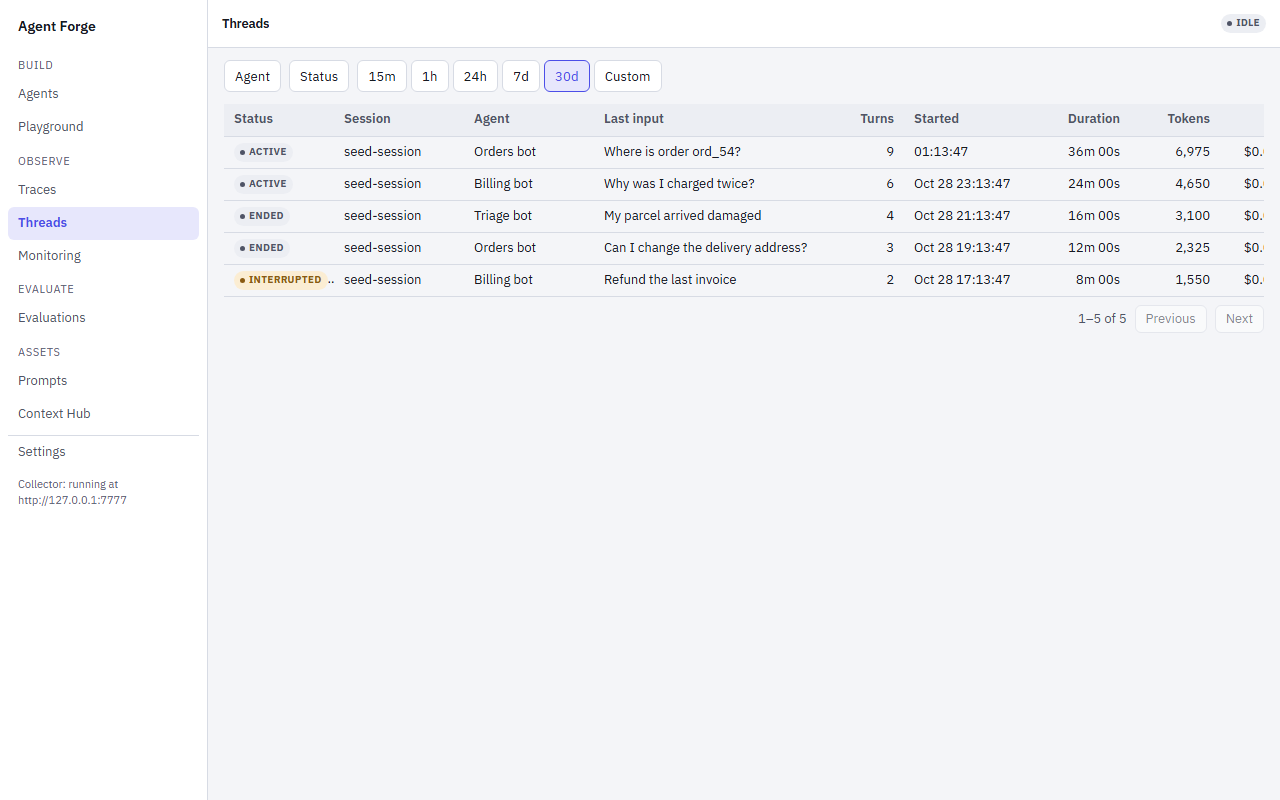
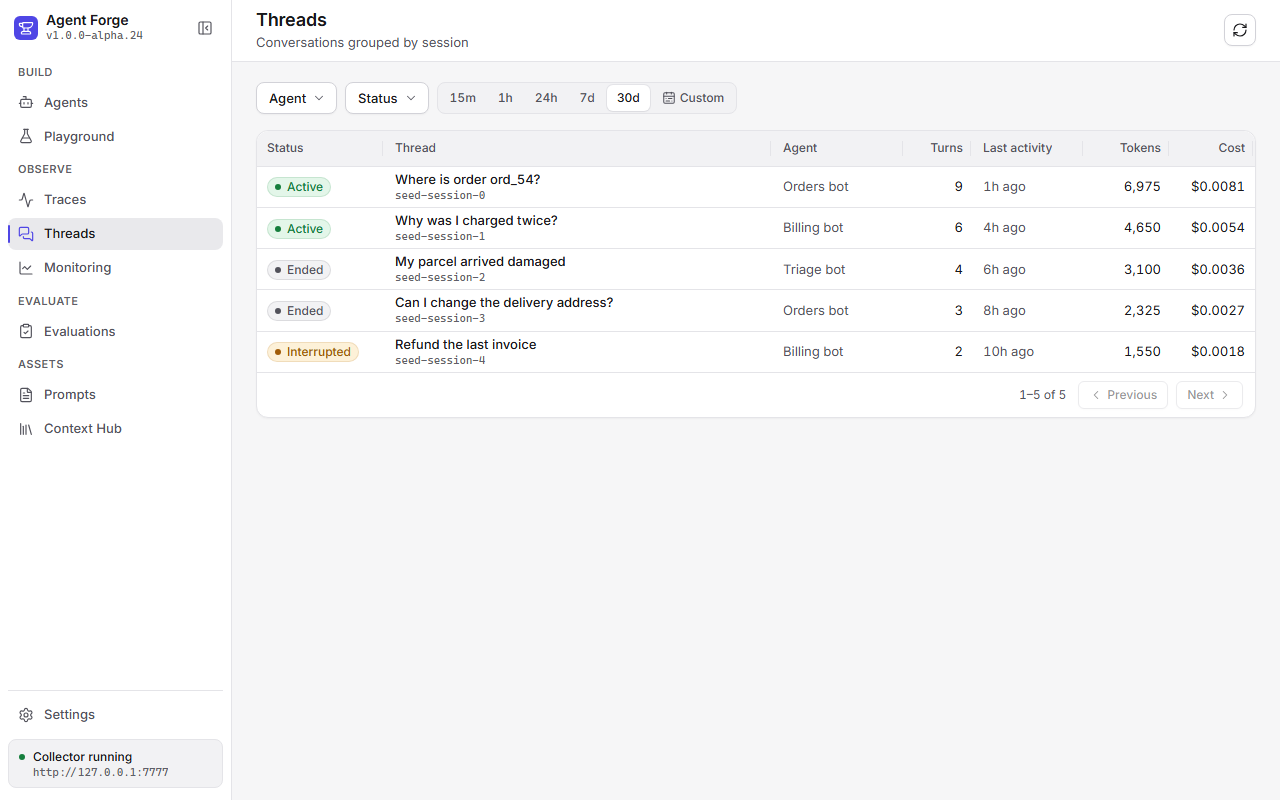
docs(studio): redesign screenshots (light + 4 dark), Agent Forge doc wording, CHANGELOG entry (#796)
* docs(studio): redesign screenshots (light + 4 dark), Agent Forge doc wording, CHANGELOG entry

docShots writes into docs/images without the x- review shots, and a dark run
there writes only studio-{agents,traces,trace,monitoring}-dark.png; with
LOUSHO_DOC_SHOTS_OUT set every shot keeps its name. docs/agent-forge.md
shows one dark example beside Traces and describes Refresh/Live, the
Tree|Waterfall switch, the trace header actions and the dark docs command.

* docs(studio): P11 review minors - Inspector button wording, Settings sections, refresh icon

---------

diff --git a/apps/agent-forge/e2e/docShots.spec.ts b/apps/agent-forge/e2e/docShots.spec.ts
@@ -26,6 +26,9 @@ import { SEED_ERROR, SEED_NEWEST_FAILURE, seedObserve } from './fixtures/seedObs
  *                                       or relative to the process cwd)
  *   LOUSHO_DOC_SHOTS_SCHEME=light|dark  the colour scheme to shoot (default light)
  *
+ * Into docs/images (no OUT) the `x-` review shots are skipped, and a dark run
+ * writes only `studio-{agents,traces,trace,monitoring}-dark.png`.
+ *
  * The small fixtures below fill the screens the seed leaves thin: a fleet with
  * mixed health, a day of chart buckets for it, and a few threads.
  */
@@ -279,11 +282,32 @@ async function open(page: Page, hash: string) {
   await expect(page.locator('.app')).toBeVisible();
 }
 
+/** The docs set shot in dark too, written as `studio-<screen>-dark.png`. */
+const DARK_DOCS = new Set(['agents', 'traces', 'trace', 'monitoring']);
+
+/**
+ * Where `file` goes, or null to skip it. With LOUSHO_DOC_SHOTS_OUT set every
+ * shot is written as named (reviewers rely on the `x-` ones). Into docs/images
+ * the `x-` review shots never go, and a dark run writes only the DARK_DOCS set.
+ */
+function shotPath(file: string): string | null {
+  if (process.env.LOUSHO_DOC_SHOTS_OUT) return path.join(OUT, file);
+  if (/^(studio-)?x-/.test(file)) return null;
+  if (shotScheme() === 'light') return path.join(OUT, file);
+  const screen = /^studio-(.+)\.png$/.exec(file)?.[1];
+  return screen && DARK_DOCS.has(screen) ? path.join(OUT, `studio-${screen}-dark.png`) : null;
+}
+
+async function snap(page: Page, file: string, options: { fullPage?: boolean } = {}) {
+  const target = shotPath(file);
+  if (target) await page.screenshot({ ...options, path: target });
+}
+
 async function shoot(page: Page, screen: string) {
   // Let toasts, focus rings and chart transitions settle.
   await page.mouse.move(0, 0);
   await page.waitForTimeout(300);
-  await page.screenshot({ path: path.join(OUT, `studio-${screen}.png`) });
+  await snap(page, `studio-${screen}.png`);
 }
 
 /** Data rows only: a first load shows skeleton rows (`.skeleton-row`) until the rows arrive. */
@@ -373,7 +397,7 @@ for (const width of [860, 375]) {
     await monitoringReady(page);
     await page.mouse.move(0, 0);
     await page.waitForTimeout(300);
-    await page.screenshot({ path: path.join(OUT, `studio-x-monitoring-${width}.png`) });
+    await snap(page, `studio-x-monitoring-${width}.png`);
   });
 }
 
@@ -546,7 +570,7 @@ test('command palette: open over Traces', async ({ page }) => {
   await expect(input).toBeFocused();
   await input.fill('go');
   await page.waitForTimeout(150);
-  await page.screenshot({ path: path.join(OUT, 'studio-command-palette.png') });
+  await snap(page, 'studio-command-palette.png');
 });
 
 // Review-only shots of the shell (`x-` names: not in the docs set).
@@ -556,7 +580,7 @@ test('x: collapsed rail on Traces', async ({ page }) => {
   await page.getByRole('button', { name: 'Collapse navigation' }).click();
   await page.waitForTimeout(250);
   await page.mouse.move(0, 0);
-  await page.screenshot({ path: path.join(OUT, 'x-rail-collapsed.png') });
+  await snap(page, 'x-rail-collapsed.png');
 });
 
 test('x: 375 wide, Traces with the nav drawer closed and open', async ({ page }) => {
@@ -564,10 +588,10 @@ test('x: 375 wide, Traces with the nav drawer closed and open', async ({ page })
   await open(page, '/traces');
   await expect(rows(page).first()).toBeVisible();
   await page.waitForTimeout(300);
-  await page.screenshot({ path: path.join(OUT, 'x-narrow-traces.png') });
+  await snap(page, 'x-narrow-traces.png');
   await page.getByRole('button', { name: 'Navigation', exact: true }).click();
   await page.waitForTimeout(300);
-  await page.screenshot({ path: path.join(OUT, 'x-narrow-drawer-open.png') });
+  await snap(page, 'x-narrow-drawer-open.png');
 });
 
 /*
@@ -714,7 +738,7 @@ test('x-kit: filter bar with a facet and the custom range open', async ({ page }
   await main.locator('.facet-btn').first().click();
   await expect(main.locator('.facet-pop')).toBeVisible();
   await page.waitForTimeout(300);
-  await page.screenshot({ path: path.join(OUT, 'studio-x-kit-filters.png') });
+  await snap(page, 'studio-x-kit-filters.png');
 });
 
 // --- Overlay/message/chart kit states (x- shots, D3b) -------------------------
@@ -800,7 +824,7 @@ test('x-kit: chart tooltip, crosshair and legend with a series toggled off', asy
   await page.mouse.move(box.x + box.width * 0.62, box.y + box.height / 2);
   await expect(runs.locator('.tsc-crosshair')).toHaveCount(1); // a zero-width line never counts as visible
   await page.waitForTimeout(200);
-  await page.screenshot({ path: path.join(OUT, 'studio-x-kit-chart-hover.png') });
+  await snap(page, 'studio-x-kit-chart-hover.png');
 });
 
 test('x-kit: toasts (info and error)', async ({ page }) => {
@@ -822,7 +846,7 @@ test('x-kit: toasts (info and error)', async ({ page }) => {
   await expect(page.getByRole('alert').filter({ hasText: 'Could not disable' })).toBeVisible();
   await page.mouse.move(0, 0);
   await page.waitForTimeout(200);
-  await page.screenshot({ path: path.join(OUT, 'studio-x-kit-toasts.png') });
+  await snap(page, 'studio-x-kit-toasts.png');
 });
 
 test('x-kit: command palette sections, scrolled to the last group', async ({ page }) => {
@@ -834,7 +858,7 @@ test('x-kit: command palette sections, scrolled to the last group', async ({ pag
   // ArrowUp from the first option wraps to the last one (Toggle theme), scrolling the list to the end.
   await page.keyboard.press('ArrowUp');
   await page.waitForTimeout(250);
-  await page.screenshot({ path: path.join(OUT, 'studio-x-kit-palette-sections.png') });
+  await snap(page, 'studio-x-kit-palette-sections.png');
 });
 
 /*
@@ -1119,7 +1143,7 @@ test('x-traces: detail at 375 wide', async ({ page }) => {
   await open(page, `/traces/${SEED_NEWEST_FAILURE.trace_id}`);
   await expect(page.getByRole('main').getByRole('alert')).toContainText(SEED_ERROR);
   await shoot(page, 'x-trace-narrow');
-  await page.screenshot({ path: path.join(OUT, 'studio-x-trace-narrow-full.png'), fullPage: true });
+  await snap(page, 'studio-x-trace-narrow-full.png', { fullPage: true });
 });
 
 test("x-traces: the Agents drawer's Trace tab (narrow host)", async ({ page }) => {
@@ -1253,7 +1277,7 @@ test('x-threads: detail with long turns (collapsed, expanded, errored)', async (
   await shoot(page, 'x-thread-expanded');
   await turnsOf(page).nth(2).scrollIntoViewIfNeeded();
   await shoot(page, 'x-thread-error');
-  await page.screenshot({ path: path.join(OUT, 'studio-x-thread-long-full.png'), fullPage: true });
+  await snap(page, 'studio-x-thread-long-full.png', { fullPage: true });
 });
 
 test('x-threads: detail at 375 wide', async ({ page }) => {
@@ -1262,7 +1286,7 @@ test('x-threads: detail at 375 wide', async ({ page }) => {
   await open(page, `/threads/${LONG_THREAD}`);
   await expect(turnsOf(page)).toHaveCount(THREAD_TURNS.length);
   await shoot(page, 'x-thread-narrow');
-  await page.screenshot({ path: path.join(OUT, 'studio-x-thread-narrow-full.png'), fullPage: true });
+  await snap(page, 'studio-x-thread-narrow-full.png', { fullPage: true });
 });
 
 // --- Evaluators and annotation queues (x- shots, P7) -------------------------

diff --git a/docs/agent-forge.md b/docs/agent-forge.md
@@ -16,7 +16,7 @@ This doc covers: installation, the `lousho studio` quickstart, the
 authoring, time travel (replaying a run from a past step), the playground
 endpoint, and how settings/secrets/deploy wiring works.
 
-![The Agents screen: nav, canvas, inspector and the bottom drawer](./images/studio-agents.png)
+![The Agents screen: nav, agent rail, the fitted canvas with the Inspector folded, and the bottom drawer](./images/studio-agents.png)
 
 ## Installation
 
@@ -49,8 +49,8 @@ agent rail (your saved agents plus a node/hook palette), the canvas, the
 Inspector (right), and a bottom drawer with Chat, Logs, Trace, Output,
 History and Settings tabs. An agent opens with nothing selected and the
 whole graph fitted in view; the Inspector stays folded away until you
-select a node, or press **Show inspector** (the panel icon at the canvas's
-top-right), which is remembered. The other screens are one click away in the
+select a node, or press the **Inspector** button at the canvas's
+top-right (its accessible name is "Show inspector"), which is remembered. The other screens are one click away in the
 navigation; see [Navigation](#navigation).
 
 Below 860px wide the navigation becomes a drawer opened from the
@@ -299,26 +299,34 @@ says so and keeps an empty editor, and runs still work. Runs go through the
 
 ![The Traces list](./images/studio-traces.png)
 
+![The Traces list in the dark theme](./images/studio-traces-dark.png)
+
+The same list in the dark theme (Settings > Appearance, or **Toggle theme** in the command palette).
+
 `#/traces` lists the daemon's runs, newest first: status, name, agent,
 input and output previews, error message, model, start, duration, tokens
 and cost (narrow windows hide the less important columns). Filter with the
 search box (name, input or output), the **Agent**, **Status**, **Model** and
 **Project** facets, and a time range (15m, 1h, 24h, 7d, 30d or Custom;
 default the last 24 h). Click **Duration**, **Tokens** or **Cost** to sort
-by it. 50 rows a page. A `prompt` filter (set by the Prompts screen's
+by it. 50 rows a page. The page header's refresh icon (**Refresh**) re-fetches the list
+now, and **Live** (a toggle) refreshes it every 5 seconds until you switch
+it off or the daemon goes down. A `prompt` filter (set by the Prompts screen's
 "Runs using this version" link) shows as a removable chip.
 
 ### Trace
 
 `#/traces/<trace id>` is one run. The header has its name, status, agent
 (a link to the agent's traces), model, start, duration, tokens, cost and
-session (a link to its thread), plus **Copy link**, **Add to dataset** and
-**Add to queue**.
+session (a link to its thread), plus **Copy link**, **Add to dataset**,
+**Add to queue** and, when the run has a model call, **Open in Playground**.
+**All traces** in the page header goes back to the list.
 
 ![A failed run: the error banner on top of the inspector](./images/studio-trace.png)
 
 Below it is the trace viewer the builder's Trace tab and the queue review
-also use: the steps as a **Tree** or a **Waterfall**, and an inspector for
+also use: the steps as a **Tree** or a **Waterfall** (a two-way switch above
+the steps), and an inspector for
 the selected step (a failed step is selected by default, else the root).
 The selected step is `?obs=` in the URL. The inspector shows, in order:
 
@@ -852,12 +860,23 @@ LOUSHO_DOC_SHOTS=1 npx playwright test -c apps/agent-forge/playwright.config.ts 
 ```
 
 It writes `docs/images/studio-<screen>.png` (1280x800, light theme) from the
-same fake daemon. The images are not part of the npm package.
+same fake daemon. The images are not part of the npm package. The dark
+examples (`studio-{agents,traces,trace,monitoring}-dark.png`) come from the
+same command with the dark scheme:
+
+```bash
+LOUSHO_DOC_SHOTS=1 LOUSHO_DOC_SHOTS_SCHEME=dark npx playwright test -c apps/agent-forge/playwright.config.ts docShots
+```
+
+Into `docs/images` the spec skips its `x-` review shots, and a dark run
+writes only those four.
 
 Two optional variables help review a restyle before and after:
 `LOUSHO_DOC_SHOTS_OUT=<dir>` writes the PNGs to another directory (absolute,
 or relative to where you run the command), and `LOUSHO_DOC_SHOTS_SCHEME=dark`
 shoots the dark theme (`light` is the default; any other value fails the run).
+With an output directory every shot is written under its own name, `x-`
+review shots included.
 
 ```bash
 LOUSHO_DOC_SHOTS=1 LOUSHO_DOC_SHOTS_OUT=/tmp/shots-dark LOUSHO_DOC_SHOTS_SCHEME=dark npx playwright test -c apps/agent-forge/playwright.config.ts docShots

diff --git a/CHANGELOG.md b/CHANGELOG.md
@@ -55,6 +55,7 @@ opt-out.
 - **Behavior change:** content captured for traces is scrubbed for secrets by default. `redactContent` is `boolean | ((text) => string)`: unset or `true` runs a built-in scrubber over message text, system instructions, tool-call arguments and tool results that replaces API-key shapes (`sk-…`, `lsv2_…`, GitHub tokens, AWS access key ids, the token after `Bearer`) with `[redacted]`; a function replaces the scrubber (text it throws on is recorded as `[redacted]`); `false` records content as is. It catches common key formats, not every secret, so set `captureContent: false` if content must never reach the db. See [Secrets in captured content](docs/observability.md#secrets-in-captured-content).
 - **Behavior change:** sessions end. The daemon marks a session `ended` once none of its runs is open and nothing in it has started or finished for `lousho observe start --session-idle-minutes N` (default 30, `0` turns it off); `ended_at` is the last activity, and a new run makes it `active` again. Sessions in an existing db close on the first sweep that finds them idle, and ended sessions then age out with retention. See [Idle sessions](docs/observability.md#idle-sessions).
 - **Behavior change:** the daemon keeps 30 days of runs by default. On its first sweep after start, and daily after that, it deletes traces whose observations all finished more than `--retention-days` ago, with their scores; a trace with a run still open, and a session still `active`, is kept. Start it with `--retention-days 0` to keep an existing db's history. See [Retention](docs/observability.md#retention).
+- Studio redesign: a new look in light and dark (Settings > Appearance picks Light, Dark or System, plus Compact or Comfortable table density), a left nav that collapses to an icon rail, and a Settings screen in sections (among them Appearance, Provider keys with Set / From environment / Not set, Collector, Keyboard shortcuts). Traces gains **Refresh** and a **Live** toggle that refreshes every 5 seconds, the trace viewer switches between **Tree** and **Waterfall**, Evaluations moves between Scores, Datasets, Evaluators and Annotation queues with tabs, Ctrl/Cmd+Enter runs the Playground, and the Agents canvas opens with the whole graph fitted and the Inspector folded until you select a node. See [Agent Forge](docs/agent-forge.md).
 
 ### Fixed
 
